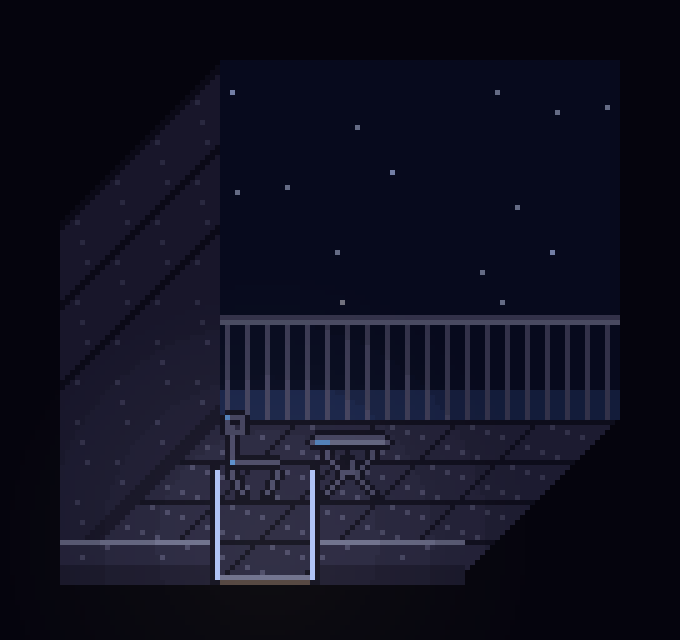
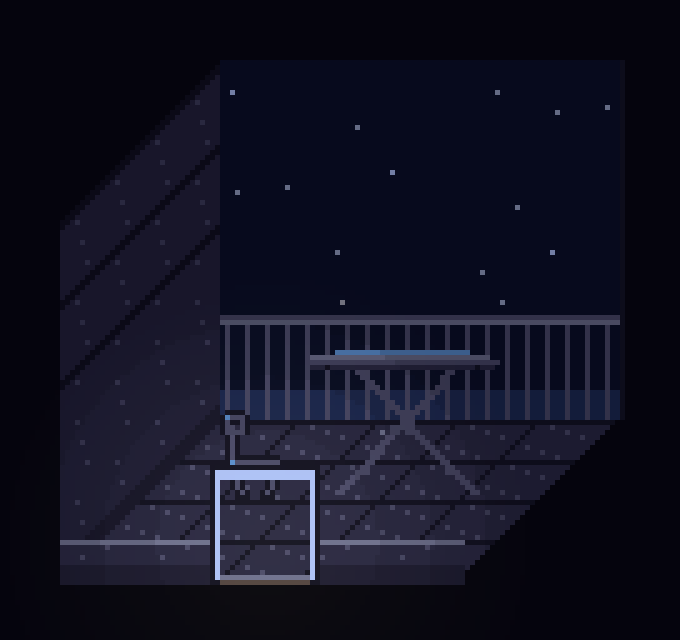
Balcony: oblique game-format renderer (no shadows), small furniture sprites
Claude-Session: https://claude.ai/code/session_01FPZSaKiVNU2zED737yZX4w

diff --git a/tools/render_balcony_oblique.py b/tools/render_balcony_oblique.py
@@ -1,0 +1,68 @@
+#!/usr/bin/env python3
+"""베란다 바깥(사선 시점, 방·복도와 같은 형식): 깊은 새벽 하늘 / 뒤쪽 철창 / 왼쪽 옆 철창(사선) / 어두운 나무판자 바닥 / 쇠 의자와 탁자.
+오른쪽·앞은 잘라낸 단면. 그림자 없음.  사용: python3 tools/render_balcony_oblique.py -> maps/out/4_balcony_oblique.png (+_x2: 화면 2배)"""
+import os, random, sys
+from PIL import Image
+sys.path.insert(0, os.path.dirname(os.path.abspath(__file__)))
+import render, render_maps as R
+
+SK = SS = .5
+W, D, PAD, RAIL, SKY = 80, 48, 6, 26, 40
+CW, CH = int(PAD * 2 + W + SK * D), int(PAD * 2 + SKY + RAIL + SS * D)
+X0, Y0 = PAD, CH - PAD
+ML, MR = (112, 114, 128, 255), (82, 84, 98, 255)
+
+def main():
+    pal = render.load_palette(); lib = R.load_library(); rng = random.Random(8); fr = random.Random(21)
+    img = Image.new('RGBA', (CW, CH), tuple(pal['X'][:3]) + (255,)); px = img.load()
+    for _ in range(8): px[rng.randrange(8, CW - 8), rng.randrange(6, SKY + 10)] = tuple(pal[rng.choice('WwWq')][:3]) + (255,)
+    def seg(p0, p1, col):
+        (x0, y0), (x1, y1) = p0, p1; n = int(max(abs(x1 - x0), abs(y1 - y0))) or 1
+        for i in range(n + 1):
+            x, y = round(x0 + (x1 - x0) * i / n), round(y0 + (y1 - y0) * i / n)
+            if 0 <= x < CW and 0 <= y < CH: px[x, y] = col
+    by = Y0 - SS * D                                          # 뒤쪽 철창이 서 있는 바닥 높이
+    bx0, bx1 = X0 + SK * D, X0 + SK * D + W
+    # 뒤쪽 철창(정면): 윗줄 2칸, 아랫줄 1칸, 창살 1칸 간격 5
+    seg((bx0, by - RAIL), (bx1, by - RAIL), ML); seg((bx0, by - RAIL + 1), (bx1, by - RAIL + 1), MR)
+    for x in range(int(bx0) + 4, int(bx1), 5): seg((x, by - RAIL + 2), (x, by - 1), MR)
+    # 바닥: 가로 판자(깊이 d가 같은 줄), 판 끝 이음은 사선으로 보인다. 폭·색·이음 위치 불규칙, 짙은 갈색
+    rows, d0 = [], 0.0
+    while d0 < D: rows.append((d0, d0 + fr.uniform(6, 12))); d0 = rows[-1][1]
+    base_cols = [(60, 40, 27), (52, 34, 24), (66, 44, 29), (56, 37, 26), (48, 32, 22)]
+    info = []
+    for _ in rows:
+        js, xj = [], fr.uniform(-40, 0)
+        while xj < W + 40: xj += fr.uniform(22, 60); js.append(xj)
+        info.append((js, [tuple(max(0, v + fr.randint(-4, 4)) for v in fr.choice(base_cols)) for _ in js]))
+    for Y in range(int(Y0 - SS * D), int(Y0) + 1):
+        d = (Y0 - Y - .5) / SS
+        if not (0 <= d < D): continue
+        ri = next(i for i, r in enumerate(rows) if r[0] <= d < r[1]) if d < rows[-1][1] else len(rows) - 1
+        js, cols = info[ri]
+        for X in range(int(X0), int(X0 + W + SK * D) + 1):
+            x = X + .5 - X0 - SK * d
+            if not (0 <= x < W): continue
+            n = next((k for k, jx in enumerate(js) if x < jx), len(js) - 1); c = cols[n]
+            if (Y0 - Y - .5) / SS - rows[ri][0] < 1.6 / 1: c = (26, 16, 12)            # 줄 사이 이음(가로선)
+            elif n > 0 and x - js[n - 1] < 1: c = (26, 16, 12)                          # 판 끝 이음(사선)
+            elif fr.random() < .035: c = tuple(v + 12 for v in c)                        # 나뭇결 점
+            px[X, Y] = c + (255,)
+    # 왼쪽 옆 철창(사선으로 눌린 모양): 윗줄 2칸 / 아랫줄 1칸 / 창살 1칸
+    for d in range(0, D + 1):
+        X, Yb = X0 + SK * d, Y0 - SS * d
+        seg((X, Yb - RAIL), (X, Yb - RAIL), ML); seg((X, Yb - RAIL + 1), (X, Yb - RAIL + 1), MR); seg((X, Yb), (X, Yb), MR)
+    for d in range(10, D + 1, 10):
+        X, Yb = X0 + SK * d, Y0 - SS * d; seg((X, Yb - RAIL + 2), (X, Yb - 1), MR)
+    # 가구(그림자 없음): 바닥의 (x, 깊이) 한 점 아래 가운데에 놓는다
+    def put(name, x, d):
+        s = lib[name]; img.alpha_composite(s, (int(X0 + x + SK * d - s.width / 2), int(Y0 - SS * d - s.height)))
+    put('iron_table_m', 56, 26); put('iron_chair_m', 30, 20)
+    # 밤의 색조
+    for Y in range(CH):
+        for X in range(CW):
+            r, g, b, a = px[X, Y]; px[X, Y] = (int(r * .85), int(g * .92), min(255, int(b * 1.15)), a)
+    out = os.path.join(os.path.dirname(os.path.abspath(__file__)), '..', 'maps', 'out', '4_balcony_oblique.png')
+    img.save(out); img.resize((CW * 2, CH * 2), Image.NEAREST).save(out.replace('.png', '_x2.png')); img.resize((CW * 5, CH * 5), Image.NEAREST).save(out.replace('.png', '_x5.png')); print(out, CW, CH)
+
+if __name__ == '__main__': main()

diff --git a/tools/gen_iron_table.py b/tools/gen_iron_table.py
@@ -1,7 +1,9 @@
 #!/usr/bin/env python3
 """쇠 원탁(위에서 내려다보는 시점): 얇은 상판 + X자 다리. art/objects.txt 의 iron_table 을 다시 쓴다."""
 import re
-SC = 1.4
+import sys
+SC = float(sys.argv[1]) if len(sys.argv) > 1 else 1.4          # 크기 배율
+NAME = sys.argv[2] if len(sys.argv) > 2 else 'iron_table'
 LEG = 20                                                 # 다리 끝 높이(낮출수록 탁자가 낮아짐)
 W, H = int(30 * SC) + 1, int((LEG + 1) * SC) + 1
 g = [['.'] * W for _ in range(H)]
@@ -23,6 +25,10 @@ for dx, dy in ((-1, 0), (1, 0), (0, -1), (0, 1)): px(int(12 * SC) + dx, int(12 *
 px(int(12 * SC), int(12 * SC), 'l')
 grid = '\n'.join(''.join(r) for r in g)
 txt = open('art/objects.txt', encoding='utf-8').read()
-blk = '[iron_table] 고풍스러운 쇠 원탁: 얇은 상판 + X자 다리(42x30) | real\n' + grid + '\n\n'
-txt = re.sub(r'\[iron_table\][^\n]*\n(?:[.\w]+\n)+\n', blk, txt, count=1)
+blk = '[' + NAME + '] 고풍스러운 쇠 원탁: 얇은 상판 + X자 다리(배율 %s) | real\n' % SC + grid + '\n\n'
+pat = r'\[' + NAME + r'\][^\n]*\n(?:[.\w]+\n)+\n'
+if re.search(pat, txt):
+    txt = re.sub(pat, lambda m: blk, txt, count=1)
+else:
+    txt = txt.replace('[iron_table]', blk + '[iron_table]', 1)
 open('art/objects.txt', 'w', encoding='utf-8').write(txt)
